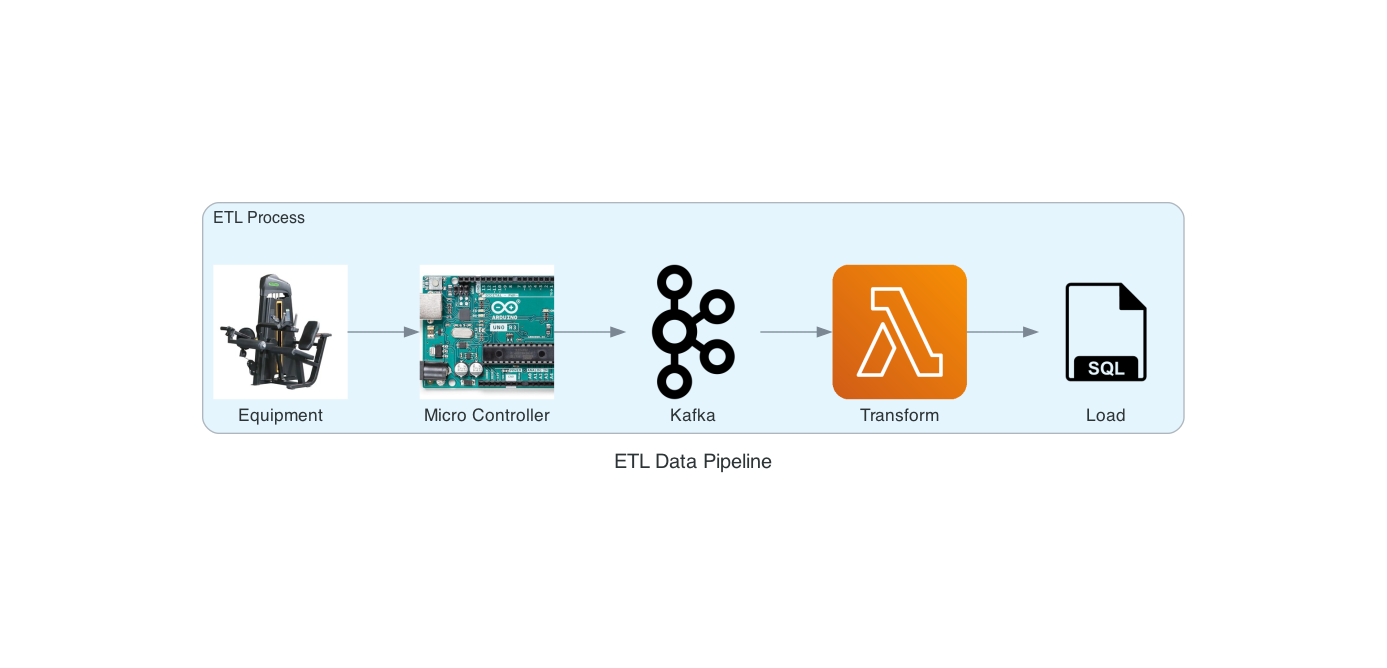
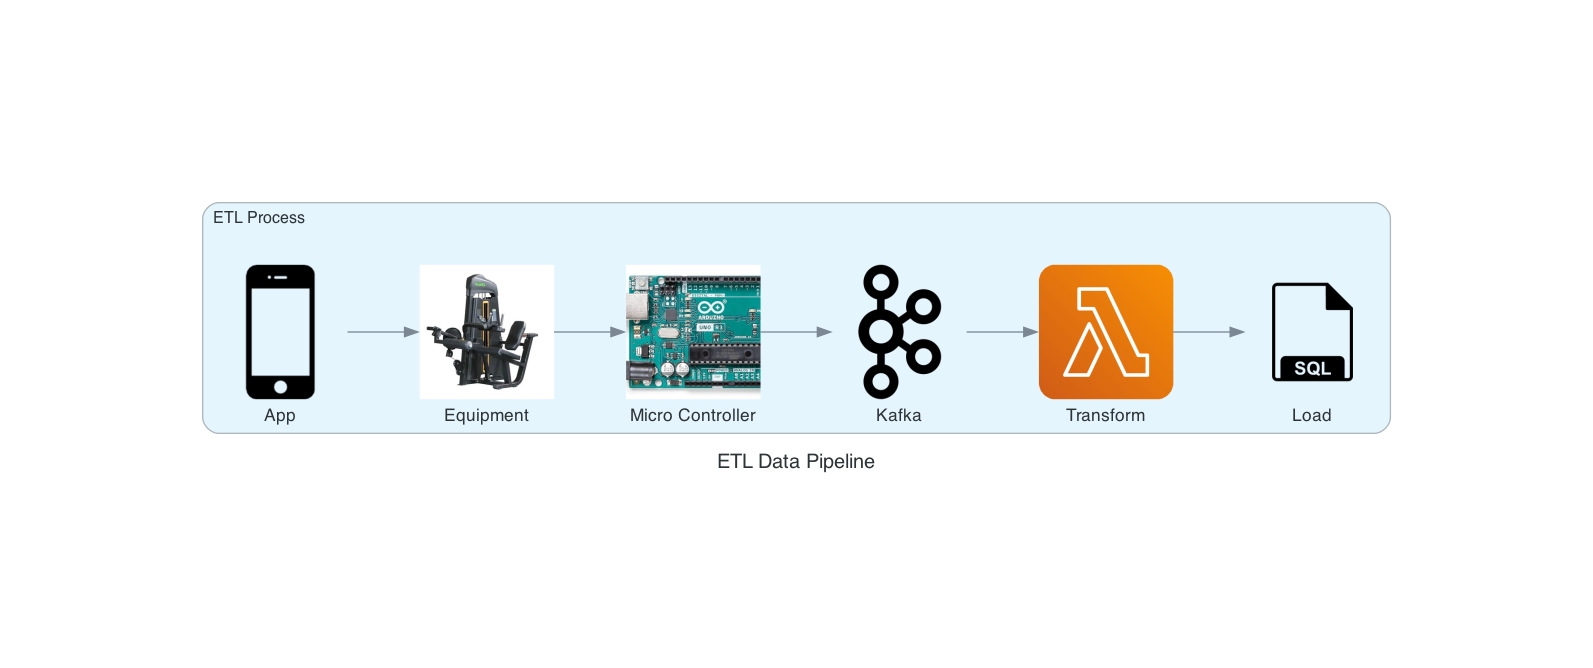
Updated Code

Changed region(s): [[0.124, 0.2994, 0.8991, 0.6587], [0.434, 0.6587, 0.558, 0.7186]]

diff --git a/HealthApp.py b/HealthApp.py
@@ -3,6 +3,7 @@ from diagrams.custom import Custom
 from diagrams.generic.database import SQL
 from diagrams.onprem.queue import Kafka
 from diagrams.aws.compute import Lambda
+from diagrams.generic.device import Mobile
 
 with Diagram("ETL Data Pipeline", show=False):
 
@@ -12,5 +13,7 @@ with Diagram("ETL Data Pipeline", show=False):
         kafka = Kafka("Kafka")
         transform = Lambda("Transform")
         load = SQL("Load")
+        mobile = Mobile("App")
 
         gymequip >> micro_controller >> kafka >> transform >> load
+        mobile >> gymequip
